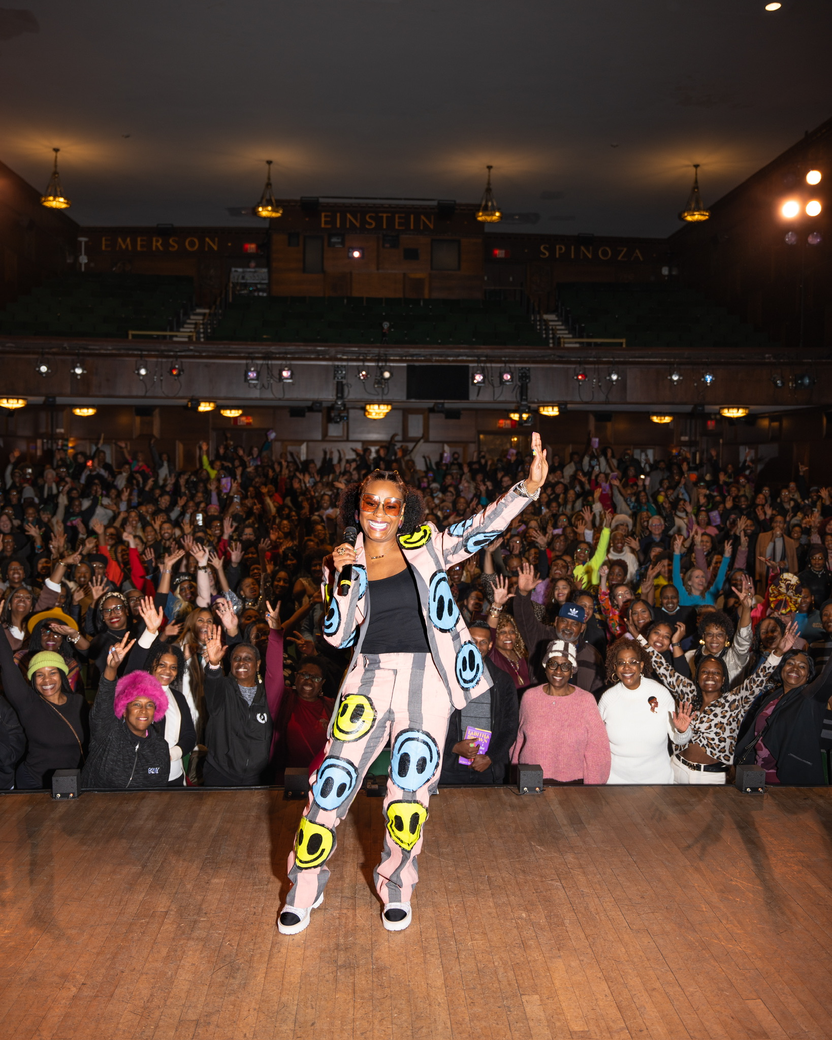
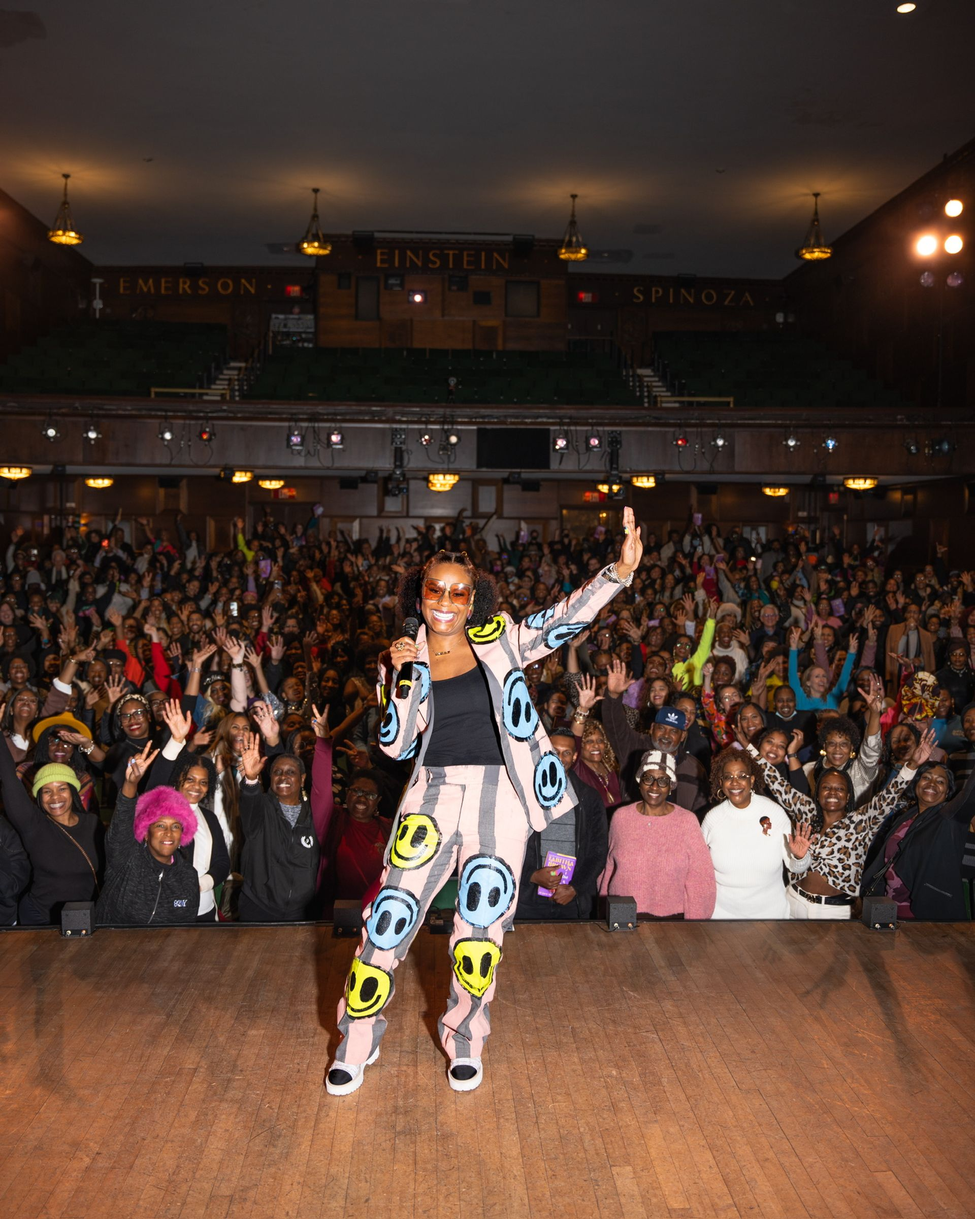
fix(images): final two undersized srcset entries
- Upscale booking-stage-crowd source to 1920x2401 so the 1920 derivative
  builds on CI (was 1638x2048, getting skipped)
- Remove the tab-time-banner-2560 srcset entry (the standard pipeline
  generates 640/1280/1920 only; the 2560 entry was a leftover from a
  local one-off and was 404ing in production)

After this, every srcset/src in v2.html resolves through Vite's rewriter
to /tabitha-brown-site/assets/*-HASH.{avif,jpg} — no /src/* leaks left.

diff --git a/v2.html b/v2.html
@@ -910,7 +910,7 @@
   <article class="slide" data-slide="4" role="group" aria-roledescription="slide" aria-label="5 of 7: Tab Time">
     <div class="slide__media" style="--obj-pos: center 35%;">
       <picture>
-        <source type="image/avif" srcset="/src/assets/img/tab-time-banner-1280.avif 1280w, /src/assets/img/tab-time-banner-1920.avif 1920w, /src/assets/img/tab-time-banner-2560.avif 2560w" sizes="100vw" />
+        <source type="image/avif" srcset="/src/assets/img/tab-time-banner-1280.avif 1280w, /src/assets/img/tab-time-banner-1920.avif 1920w" sizes="100vw" />
         <img src="/src/assets/img/tab-time-banner-1280.jpg" alt="Tab Time — Tabitha with the show's animated characters" loading="lazy" />
       </picture>
     </div>
